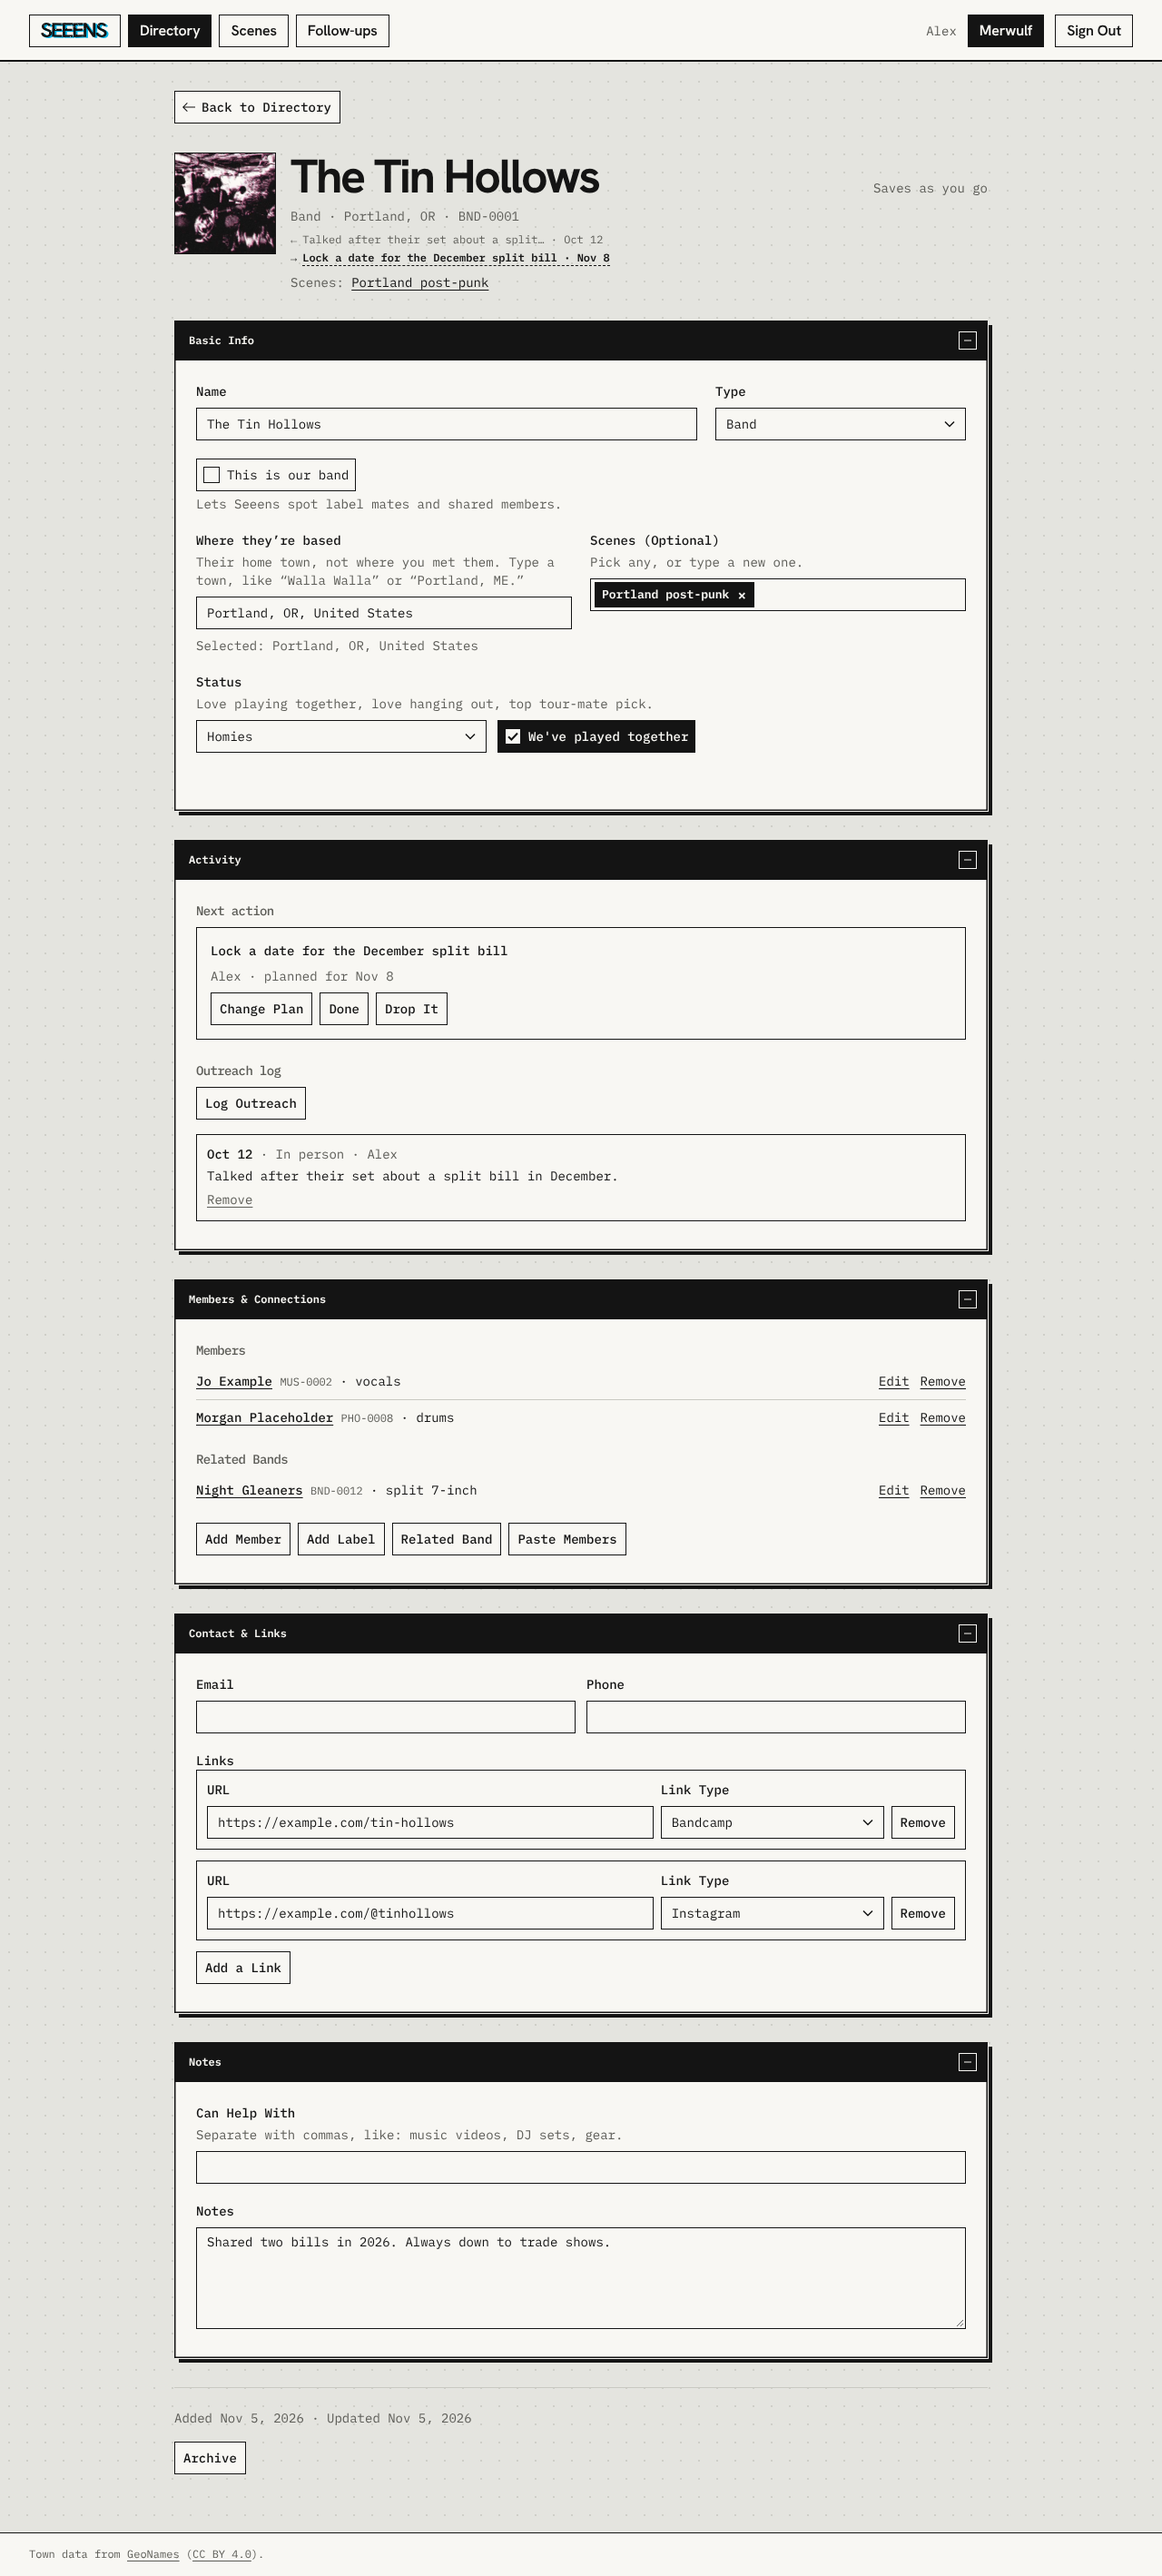
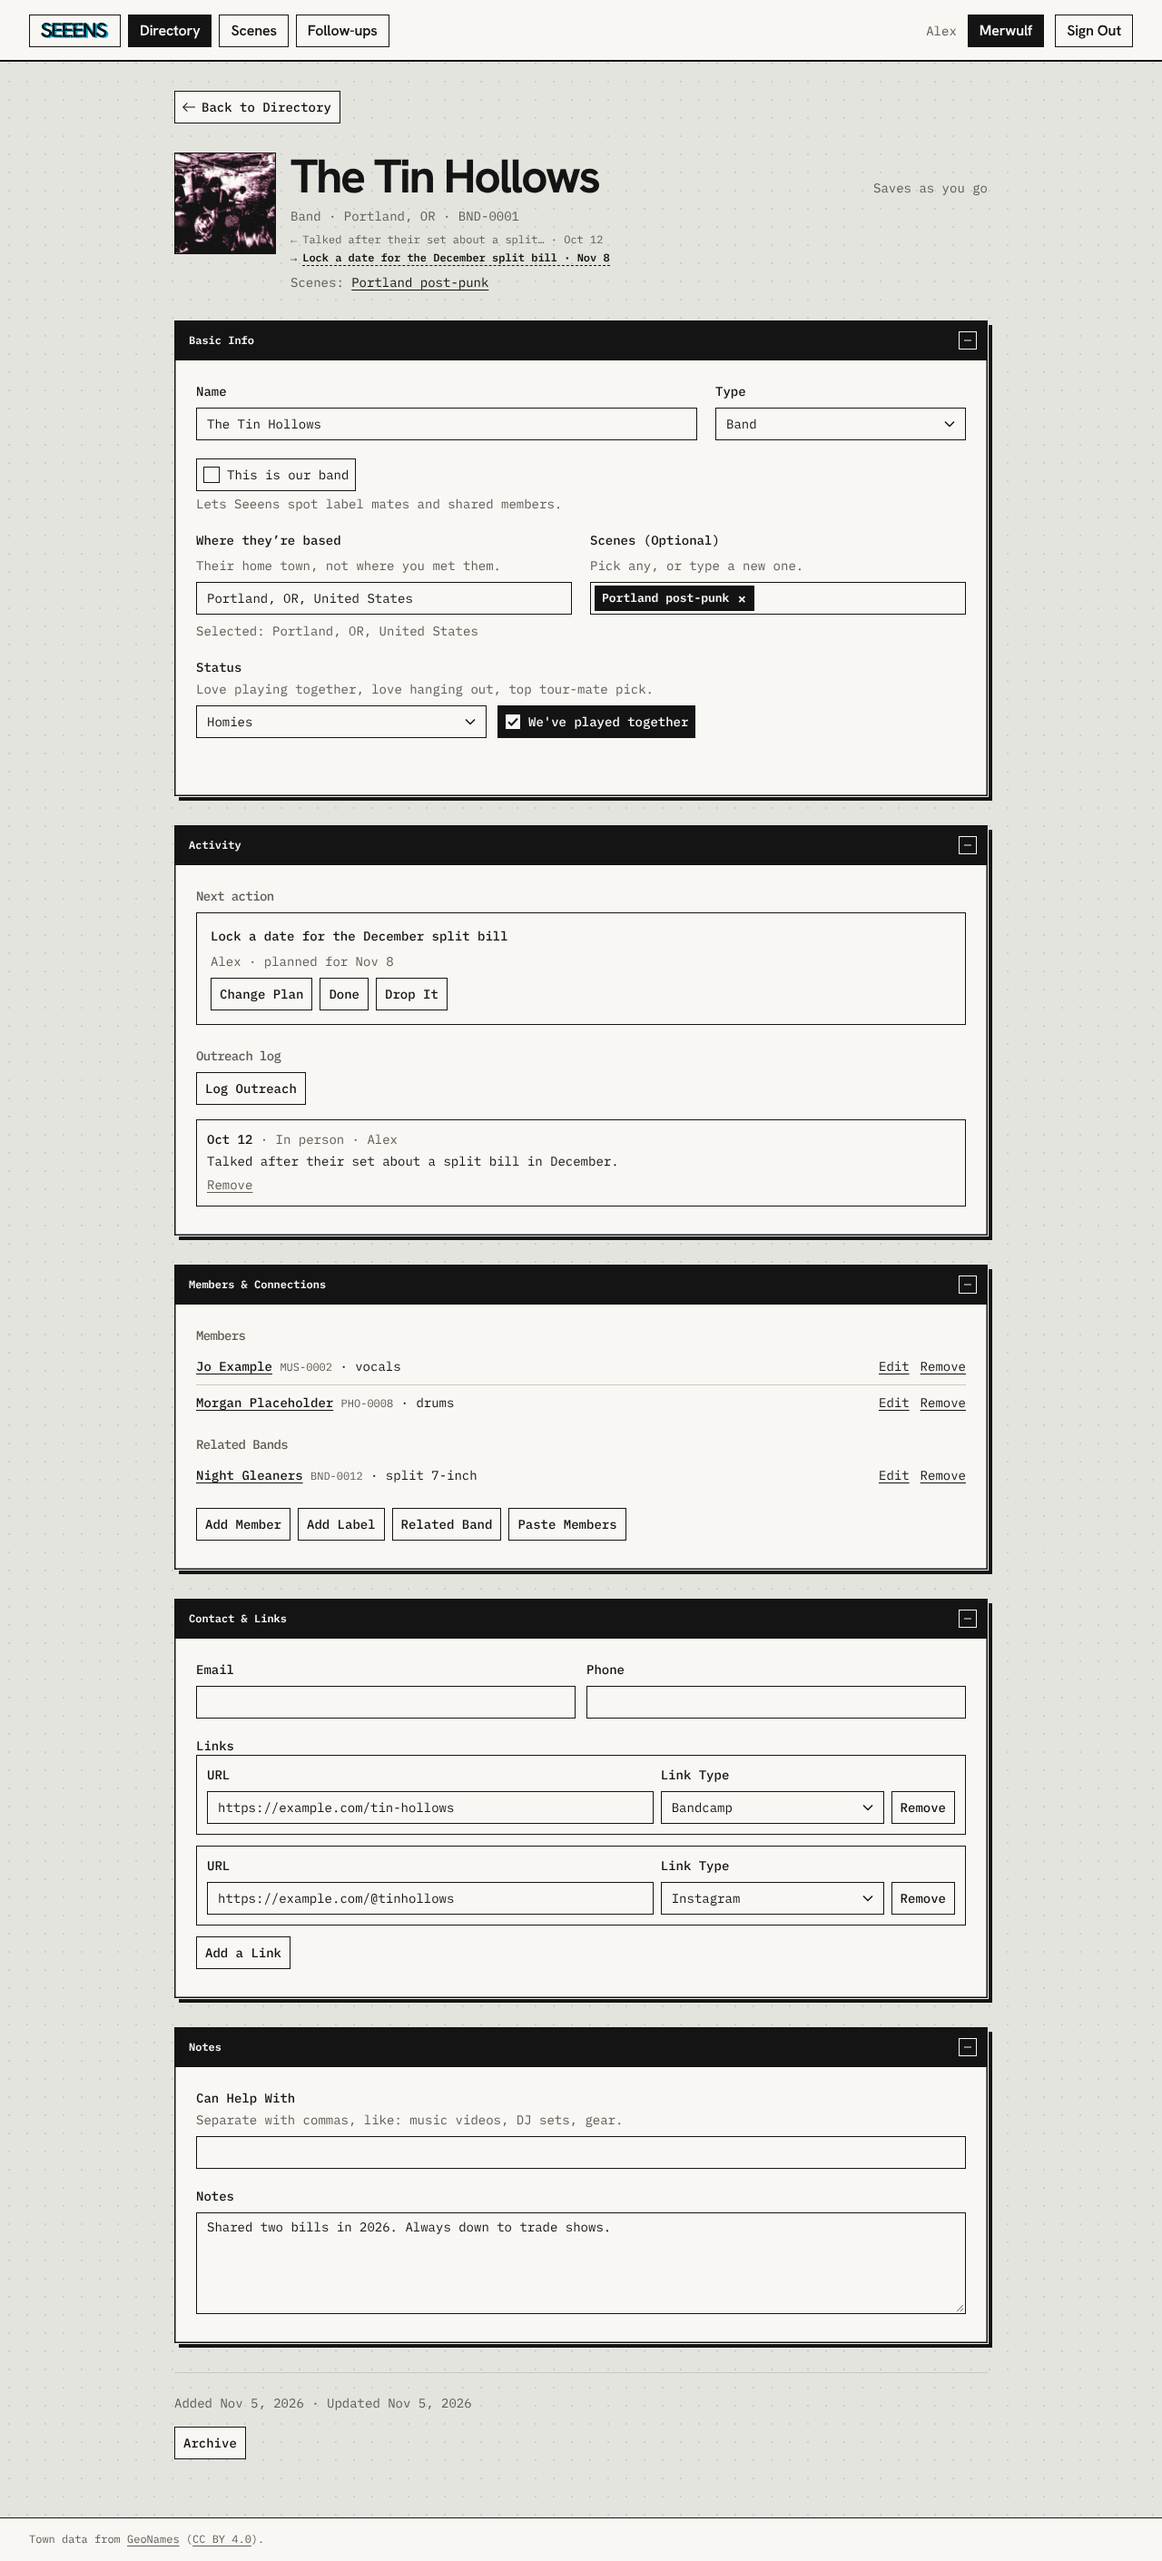
Town hint and placeholder; Town and Scenes line up (#170)
The town hint is one line, with the examples moved to the placeholder.
Town and Scenes share a subgrid so their boxes start level and grow
downward. New scenes get a space before "(new)".

Claude-Session: https://claude.ai/code/session_01SMP6NnyPkRALtU7G1T7uNS

diff --git a/src/app/globals.css b/src/app/globals.css
@@ -2000,3 +2000,34 @@
     overflow: hidden;
   }
 }
+
+/* Two fields side by side whose labels and hints differ in length (Town and
+   Scenes): a subgrid lines up label, hint, and box across both columns, so
+   the boxes start level and grow downward. Unlayered so it beats the
+   components' flex utilities; margins stand in for their gap-2 and -mt-1. */
+@media (width >= 40rem) {
+  .field-pair {
+    display: grid;
+    grid-template-columns: repeat(2, minmax(0, 1fr));
+    grid-template-rows: repeat(5, auto);
+    column-gap: 1.25rem;
+    row-gap: 0;
+    align-items: start;
+  }
+  .field-pair > * {
+    grid-row: span 5;
+    display: grid;
+    grid-template-rows: subgrid;
+    gap: 0;
+    align-content: start;
+    /* Each piece keeps its own height; a short box doesn't stretch to
+       match a tall one beside it. */
+    align-items: start;
+  }
+  .field-pair > * > :not(:first-child, ul, .sr-only, input[type="hidden"]) {
+    margin-top: 8px;
+  }
+  .field-pair > * > [id$="-hint"] {
+    margin-top: 4px;
+  }
+}

diff --git a/src/components/place-field.tsx b/src/components/place-field.tsx
@@ -13,7 +13,8 @@ export function PlaceField({
   keepLocalityId,
   error,
   label = "Where they\u2019re based",
-  hint = "Their home town, not where you met them. Type a town, like \u201cWalla Walla\u201d or \u201cPortland, ME.\u201d",
+  hint = "Their home town, not where you met them.",
+  placeholder = "Try \u201cWalla Walla\u201d or \u201cPortland, ME.\u201d",
 }: {
   initialId: number | null;
   initialLabel: string;
@@ -21,6 +22,7 @@ export function PlaceField({
   error?: string;
   label?: string;
   hint?: string;
+  placeholder?: string;
 }) {
   const id = useId();
   const [text, setText] = useState(initialLabel);
@@ -84,6 +86,7 @@ export function PlaceField({
         aria-activedescendant={open && active >= 0 ? `${listId}-${active}` : undefined}
         aria-invalid={error ? true : undefined}
         aria-describedby={describedBy}
+        placeholder={placeholder}
         value={text}
         onChange={(e) => {
           setText(e.target.value);

diff --git a/src/components/combobox.tsx b/src/components/combobox.tsx
@@ -226,7 +226,9 @@ export function Combobox({
             ))}
             {created.map((n) => (
               <li key={`new:${n}`} className="combo-tag">
-                {n} <span className="font-normal opacity-70">(new)</span>
+                <span>
+                  {n} <span className="font-normal opacity-70">(new)</span>
+                </span>
                 <button type="button" onClick={() => removeCreated(n)} aria-label={`Remove ${n}`}>
                   ×
                 </button>

diff --git a/src/components/profile/basic-info.tsx b/src/components/profile/basic-info.tsx
@@ -119,7 +119,8 @@ export function BasicInfoFields({
         </div>
       ) : null}
 
-      <div className="grid gap-5 sm:grid-cols-2">
+      {/* Town and Scenes line up label, hint, and box (.field-pair). */}
+      <div className="field-pair grid gap-5">
         <PlaceField
           initialId={v.placeId ? Number(v.placeId) : null}
           initialLabel={v.placeText}
